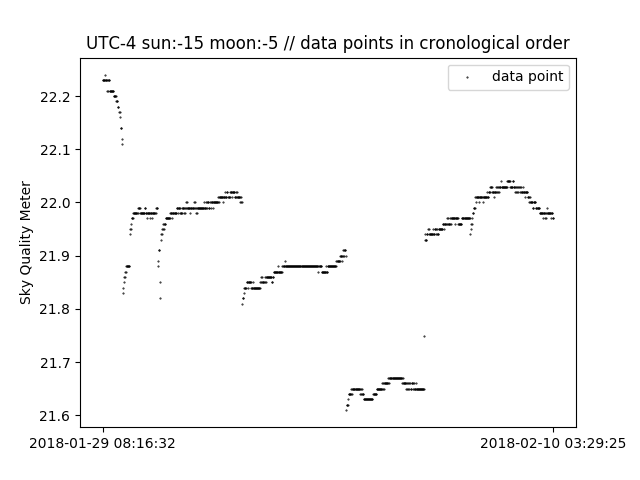
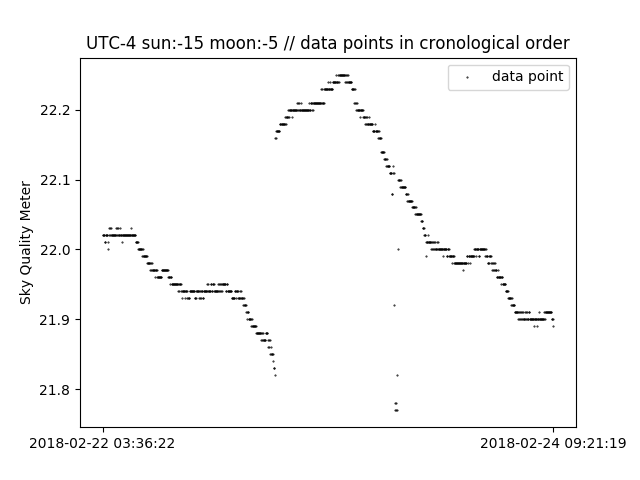
data offset 9

diff --git a/plot1.py b/plot1.py
@@ -17,7 +17,7 @@ colors = ['r', 'y', 'b', 'greenyellow', 'c', 'g', 'black']
 #binSize = 10080 # data points, one per minute, 10.080 a week
 [db_cursor, database] = WS.db_connect()
 search = "SELECT `UTC`, `sqm` FROM `weather` WHERE \
-`UTC` >= '2018-01-29 00:53:26' AND `UTC` <= '2018-02-10 03:30:00' AND \
+`UTC` >= '2018-02-22 03:29:25' AND `UTC` <= '2018-02-25 01:08:24' AND \
 `SunElevation` < -15 AND `MoonElevation` < -5 AND \
 `weatherstatus`= 'Go Science!' ORDER BY `UTC` ASC LIMIT 1000000"
 
